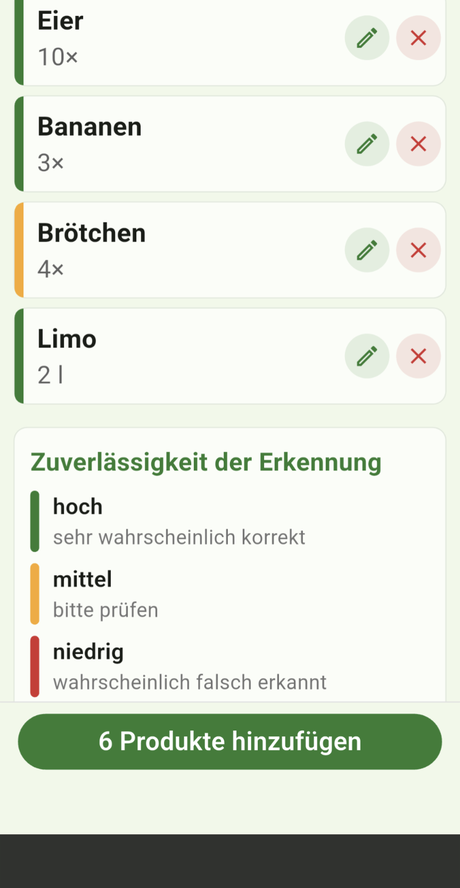
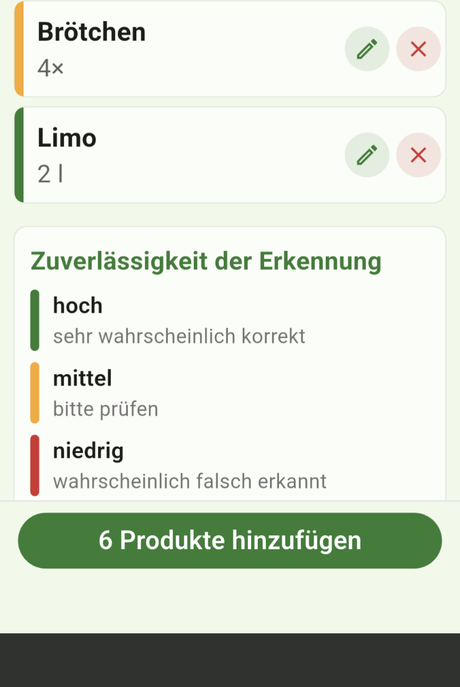
Add files via upload

diff --git a/index.html b/index.html
@@ -139,6 +139,7 @@
   .foot{display:flex; justify-content:space-between; align-items:center; gap:16px; flex-wrap:wrap}
   .foot .links{display:flex; gap:22px}
   .foot a{color:var(--muted); text-decoration:none; font-weight:600}
+  .foot a.brand{color:var(--ink); font-weight:800; font-size:20px; font-family:var(--disp)}
   .foot a:hover{color:var(--ink)}
 
   /* Feature-Karten: Icon + Titel in einer Zeile, Rahmen wie Keine Werbung */
@@ -150,7 +151,7 @@
   .fcard p{color:var(--muted); font-size:14.5px; margin:0; line-height:1.55}
 
   /* Finale CTA */
-  .cta{padding:66px 0}
+  .cta{padding:0 0 66px}
   .cta-card{display:grid; grid-template-columns:0.85fr 1.15fr; gap:30px; align-items:center; background:var(--mint-2); border:1px solid var(--line); border-radius:26px; padding:40px 48px}
   .cta-art{display:flex; justify-content:center}
   .cta-illu{width:100%; max-width:250px; height:auto; display:block; margin:0 auto}
@@ -167,9 +168,9 @@
   .pcard .phead .ic{width:42px;height:42px;border-radius:11px;background:var(--mint);color:var(--green);display:grid;place-items:center;flex:none}
   .pcard .phead .ic svg{width:22px;height:22px}
   .pcard .phead h3{font-size:18px}
-  .pcard .phone{position:relative;display:block;width:100%;border:0;padding:9px;background:#12241a;border-radius:26px;cursor:zoom-in;box-shadow:0 16px 34px -20px rgba(18,62,23,.5)}
-  .pcard .phone .notch{position:absolute;top:15px;left:50%;transform:translateX(-50%);width:46px;height:6px;border-radius:6px;background:#0c1a12;z-index:2}
-  .pcard .phone .scr{display:block;border-radius:18px;overflow:hidden;max-height:340px}
+  .pcard .phone{position:relative;display:block;width:100%;border:0;padding:5px;background:#12241a;border-radius:22px;cursor:zoom-in;box-shadow:0 16px 34px -20px rgba(18,62,23,.5)}
+  .pcard .phone .notch{position:absolute;top:11px;left:50%;transform:translateX(-50%);width:46px;height:6px;border-radius:6px;background:#0c1a12;z-index:2}
+  .pcard .phone .scr{display:block;border-radius:17px;overflow:hidden;max-height:340px}
   .pcard .phone .scr img{width:100%;display:block;transition:transform .25s ease}
   .pcard .phone .zoom{position:absolute;right:16px;bottom:14px;width:34px;height:34px;border-radius:50%;background:rgba(255,255,255,.92);color:var(--green-dark);display:grid;place-items:center;box-shadow:0 4px 10px -3px rgba(0,0,0,.4)}
   .pcard .phone .zoom svg{width:18px;height:18px}